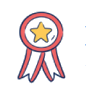
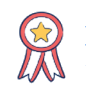
Update SLPS slideshow assets

diff --git a/slps_equitable_access_slideshow.html b/slps_equitable_access_slideshow.html
@@ -581,7 +581,7 @@
     <section class="slide question-slide" aria-label="Discussion questions">
       <div class="slide-content split">
         <div>
-          <h2>Some of the questions for you are:</h2>
+          <h2>Some of the questions for you:</h2>
           <p>Use the Market Value Assets frame as one way to discuss what students should experience and when.</p>
         </div>
         <div class="question-stack">